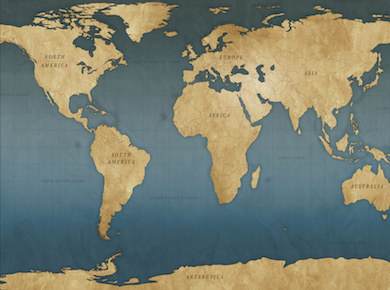
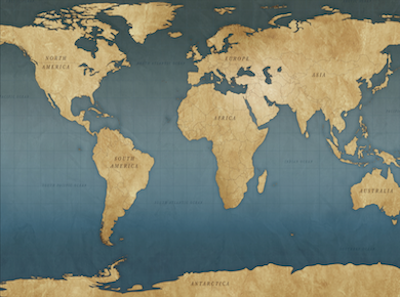
Slightly changed the size of the video
Slightly changed the size of the video frame

diff --git a/index.html b/index.html
@@ -33,7 +33,7 @@
       </div>
       <div class="row">
 	  <div class="col-lg-12 text-center">
-	      <video poster="assets/theworld.png" width="390" height="290  controls>
+	      <video class="img-fluid" poster="assets/theworld.png" width="400" height="297" controls >
 		      <source src="assets/TravBud.mp4" type="video/mp4"/>
 		      Your browser does not support the video tag.
 	          </video>
